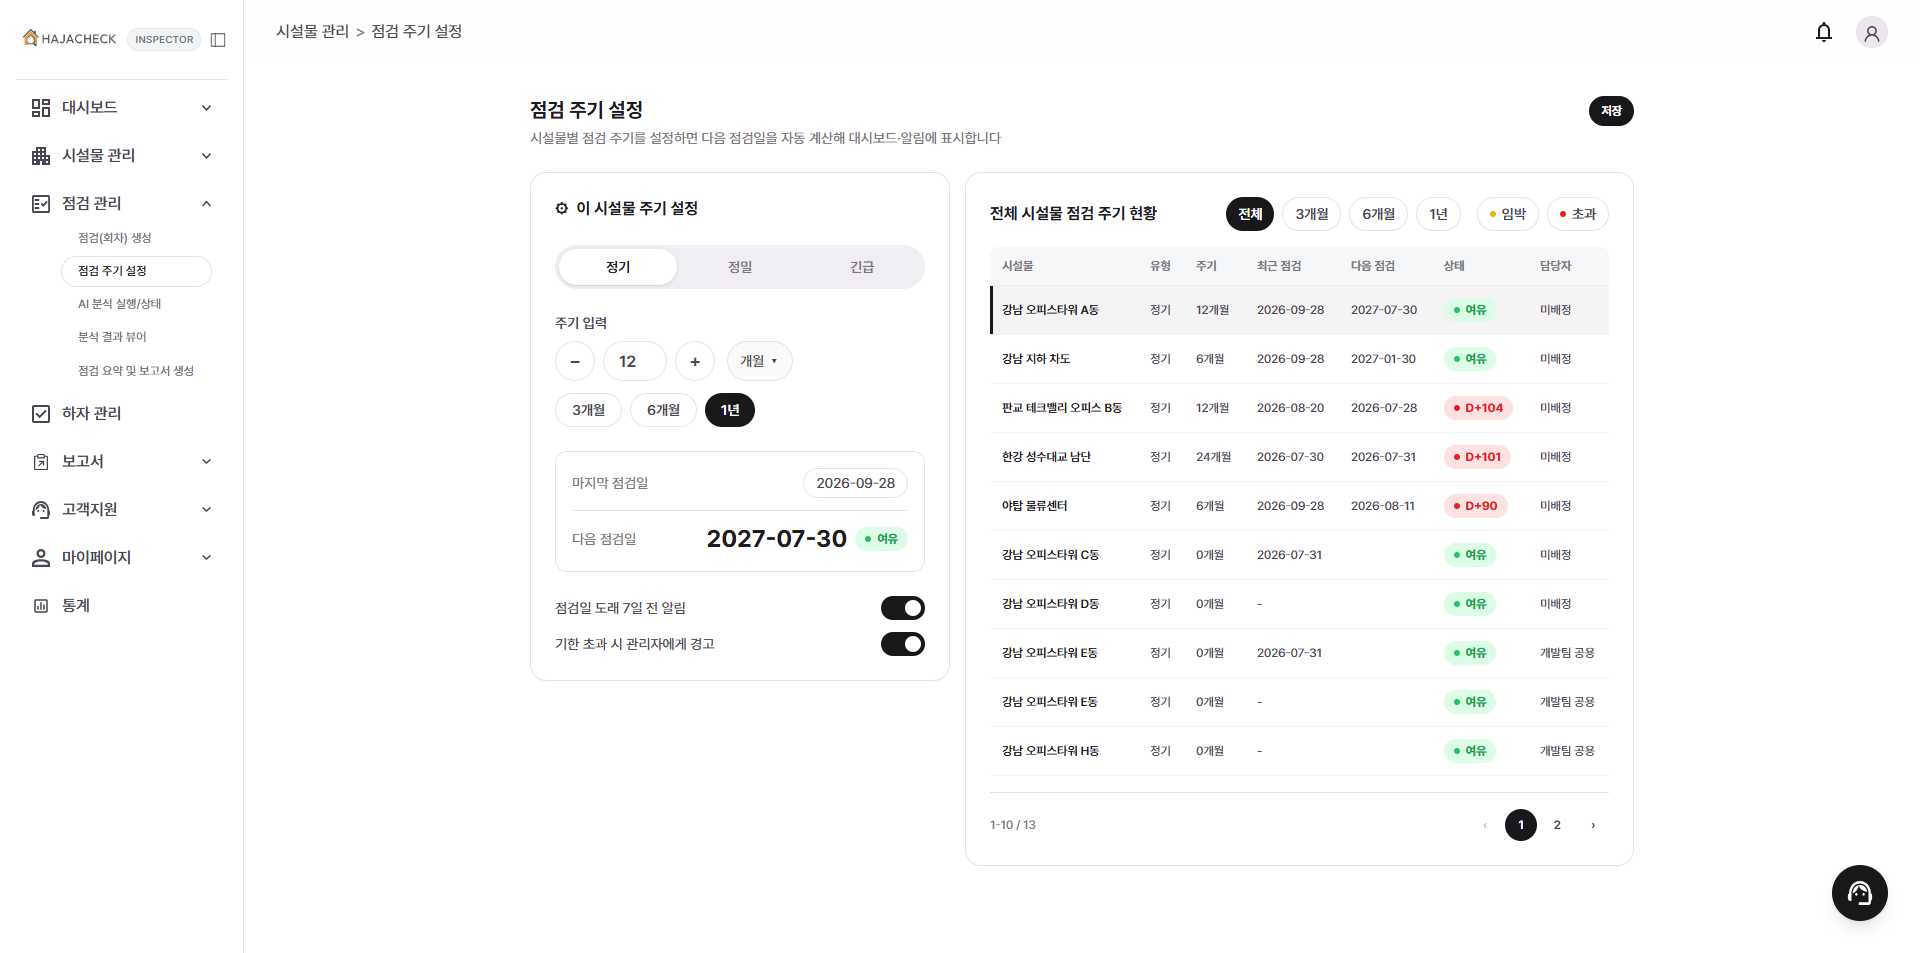
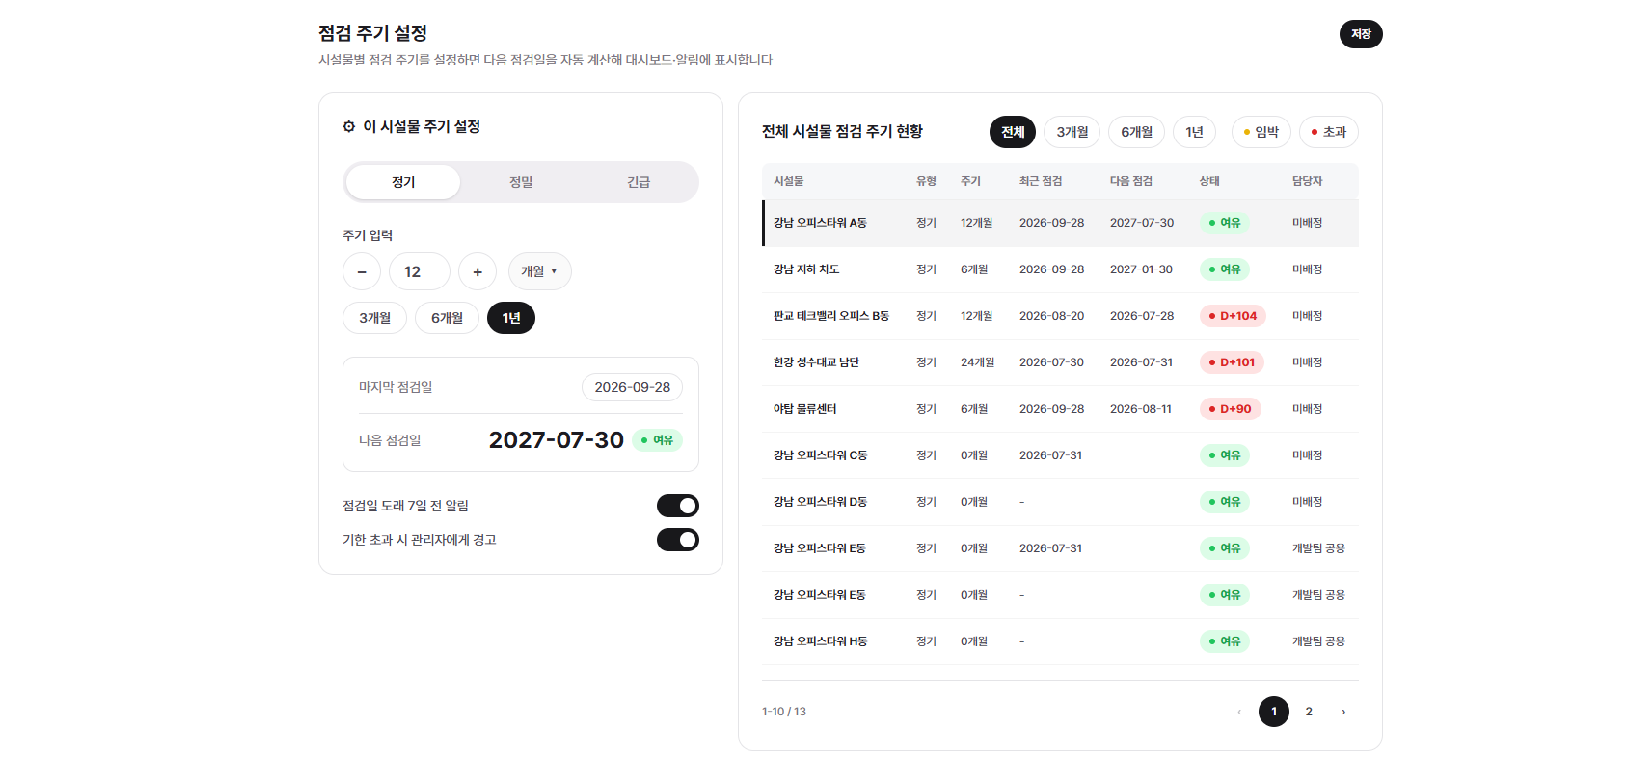
fix: 보고서 편집과 랜딩 시연 정합성 개선 (#1323)

diff --git a/frontend/src/features/landing/LandingPage.tsx b/frontend/src/features/landing/LandingPage.tsx
@@ -93,8 +93,8 @@ export default function LandingPage() {
           미래를 예측하다
         </h1>
         <p>
-          AI 기술과 체계적인 데이터 관리로 시설물의 수명을 늘리고 유지보수 비용을 절감하세요.
-          도면부터 센서 데이터까지 완벽하게 통제합니다.
+          시설물 정보부터 점검 결과와 하자 이력까지 한 곳에서 관리하세요.
+          AI 분석과 보고서 생성으로 점검 업무를 더 빠르게 이어갑니다.
         </p>
         <a className="landing-cta" href="/login">
           무료로 시작하기 →
@@ -157,9 +157,9 @@ export default function LandingPage() {
           완벽하게
         </h2>
         <p className="landing-p--wide">
-          도면, 센서 데이터, 점검 이력 등 흩어져 있는 시설물 정보를 중앙 집중화하여 언제 어디서나 쉽게
+          시설물 정보와 점검 이력을 한 곳에서 관리하고, 점검 회차별 결과와 하자 현황을 확인하세요.
           <br />
-          접근하고 관리하세요. 최신 BIM 연동을 지원합니다.
+          시설물별 점검 주기를 설정해 다음 점검 일정을 관리할 수 있습니다.
         </p>
         <div className="landing-visual landing-screen-visual">
           <img src={analysisViewerImage} alt="분석 결과 뷰어 화면" className="landing-screen-image" loading="lazy" />
@@ -170,8 +170,9 @@ export default function LandingPage() {
         <p className="landing-eyebrow">INSPECTION MANAGEMENT</p>
         <h2>체계적인 점검 일정과 이력 관리</h2>
         <p>
-          정기, 수시 점검 일정을 누락 없이 관리하고, 현장에서 모바일로 즉시 결과를 입력하세요.
-          데이터는 클라우드에 안전하게 동기화됩니다.
+          정기·정밀·긴급 점검 회차를 만들고, 사진과 영상을 업로드해 점검을 시작하세요.
+          <br />
+          분석 결과와 검수 상태를 확인하며 점검 이력을 관리할 수 있습니다.
         </p>
         <div className="landing-visual landing-screen-visual">
           <img src={inspectionCycleImage} alt="시설물 점검 주기 설정 화면" className="landing-screen-image" loading="lazy" />
@@ -186,9 +187,9 @@ export default function LandingPage() {
           미세한 결함
         </h2>
         <p>
-          드론 촬영 이미지나 현장 사진을 업로드하면, AI 비전 기술이 균열, 누수, 박락 등{' '}
+          현장 사진과 영상을 업로드하면, AI 비전 기술이 균열, 누수, 박리·박락 등{' '}
           <span className="landing-nowrap">육안으로 놓치기</span> 쉬운 하자를 자동으로
-          분석하고 심각도를 분류합니다.
+          탐지하고 등급과 위치를 확인할 수 있습니다.
         </p>
         <div className="landing-badge-row">
           <span className="landing-pill landing-pill--danger">
@@ -239,12 +240,6 @@ export default function LandingPage() {
                     </li>
                   ))}
                 </ul>
-                <a
-                  className={`landing-pricing-cta${tier.inverted ? ' landing-pricing-cta--white' : ''}`}
-                  href="/login"
-                >
-                  {tier.ctaLabel}
-                </a>
               </div>
             ))}
           </div>

diff --git a/frontend/src/features/report/pages/ReportGeneratePage.tsx b/frontend/src/features/report/pages/ReportGeneratePage.tsx
@@ -13,6 +13,7 @@ import { ReportEditorHero } from '../components/editor/ReportEditorHero';
 import { isReportContent } from '../types';
 import type { ReportContent } from '../types';
 import { buildReportPdfFileName, exportReportToPdf } from '../utils/exportReportToPdf';
+import { getEmptyManualSectionLabels } from '../utils/manualSectionValidation';
 import { buildReportPdfContext } from '../utils/reportPdfContext';
 
 function extractErrorMessage(err: unknown, fallback: string): string {
@@ -217,6 +218,8 @@ export function ReportGeneratePage() {
   }, [applyReport, reportQuery.data]);
 
   const dirty = content !== null && savedContent !== null && JSON.stringify(content) !== JSON.stringify(savedContent);
+  const emptyManualSectionLabels = useMemo(() => getEmptyManualSectionLabels(content), [content]);
+  const hasEmptyManualSections = emptyManualSectionLabels.length > 0;
   const isFinalized = report?.status === 'FINALIZED';
 
   // 확정 검증을 통과하고(groundingCheckPassed === true) 저장되지 않은 변경이 없으면(!dirty),
@@ -268,6 +271,10 @@ export function ReportGeneratePage() {
 
   const handleSave = async () => {
     if (!report || !content || isSaving) return;
+    if (hasEmptyManualSections) {
+      setSaveError('내용이 비어 있는 추가 섹션을 입력하거나 삭제한 뒤 저장하세요.');
+      return;
+    }
     setIsSaving(true);
     setSaveError(null);
     try {
@@ -556,7 +563,11 @@ export function ReportGeneratePage() {
       {!isFinalized && (
         <div className="flex flex-col gap-3 rounded-lg border border-border bg-surface p-6">
           <div className="flex flex-wrap items-center gap-3">
-            <Button onClick={handleSave} variant="primary" disabled={!dirty || isSaving}>
+            <Button
+              onClick={handleSave}
+              variant="primary"
+              disabled={!dirty || isSaving || hasEmptyManualSections}
+            >
               {isSaving ? '저장 중...' : '저장'}
             </Button>
             <Button
@@ -570,6 +581,11 @@ export function ReportGeneratePage() {
           {dirty && (
             <p className="text-xs text-text-muted">
               저장하지 않은 변경 사항이 있습니다. 확정 검증 전에 저장하세요.
+            </p>
+          )}
+          {hasEmptyManualSections && (
+            <p className="text-xs text-danger" role="alert">
+              내용이 비어 있는 추가 섹션이 있습니다: {emptyManualSectionLabels.join(', ')}
             </p>
           )}
           {report.groundingCheckPassed !== true && !dirty && (

diff --git a/frontend/src/features/report/pages/ReportGeneratePage.test.tsx b/frontend/src/features/report/pages/ReportGeneratePage.test.tsx
@@ -87,6 +87,7 @@ const mockReport: ReportDetailResponse = {
 };
 
 let generateReportCallCount = 0;
+let updateReportCallCount = 0;
 let reportState: ReportDetailResponse = mockReport;
 let uploadedPdfFileName: string | null = null;
 let uploadedPdfSize: number | null = null;
@@ -120,6 +121,7 @@ const server = setupServer(
   }),
   http.get('/api/reports/1', () => HttpResponse.json({ success: true, data: reportState })),
   http.patch('/api/reports/1', async ({ request }) => {
+    updateReportCallCount += 1;
     const body = (await request.json()) as { contentJson: string };
     reportState = { ...reportState, content: JSON.parse(body.contentJson), groundingCheckPassed: null };
     return HttpResponse.json({ success: true, data: reportState });
@@ -164,6 +166,7 @@ const server = setupServer(
 beforeAll(() => server.listen());
 beforeEach(() => {
   generateReportCallCount = 0;
+  updateReportCallCount = 0;
   reportState = mockReport;
   uploadedPdfFileName = null;
   uploadedPdfSize = null;
@@ -284,6 +287,21 @@ describe('ReportGeneratePage', () => {
     await waitFor(() => expect(purposeInput.readOnly).toBe(true));
     resolveSave?.();
     await waitFor(() => expect(purposeInput.readOnly).toBe(false));
+  });
+
+  it('내용이 비어 있는 추가 섹션은 저장할 수 없다', async () => {
+    renderPage();
+    await screen.findByText('보고서 생성 결과');
+
+    fireEvent.click(screen.getByRole('button', { name: '+ 서식 섹션 추가' }));
+    fireEvent.click(screen.getByRole('button', { name: '제출문' }));
+
+    const saveButton = screen.getByRole('button', { name: '저장' }) as HTMLButtonElement;
+    expect(saveButton.disabled).toBe(true);
+    expect(screen.getByRole('alert').textContent).toContain('제출문');
+
+    fireEvent.click(saveButton);
+    expect(updateReportCallCount).toBe(0);
   });
 
   it('기존 reportId 상세 content로 진입해 바로 PDF 생성 후 확정할 수 있다', async () => {

diff --git a/frontend/src/features/landing/LandingPage.test.tsx b/frontend/src/features/landing/LandingPage.test.tsx
@@ -40,6 +40,22 @@ describe('LandingPage 제품 스크린샷 및 요금제', () => {
     });
   });
 
+  it('요금제 카드에는 가입 또는 문의 CTA를 표시하지 않는다', () => {
+    renderWithProviders(<LandingPage />);
+
+    expect(screen.queryByRole('link', { name: '무료 시작' })).toBeNull();
+    expect(screen.queryByRole('link', { name: '업그레이드 문의' })).toBeNull();
+    expect(screen.queryByRole('link', { name: '도입 문의' })).toBeNull();
+  });
+
+  it('레포에 없는 센서, BIM, 드론 연동 기능을 랜딩에 소개하지 않는다', () => {
+    renderWithProviders(<LandingPage />);
+
+    expect(screen.queryByText(/센서 데이터|BIM 연동|드론 촬영/)).toBeNull();
+    expect(screen.getByText(/시설물 정보와 점검 이력을 한 곳에서 관리하고/)).toBeTruthy();
+    expect(screen.getByText(/현장 사진과 영상을 업로드하면/)).toBeTruthy();
+  });
+
   it('공개 요금제 API를 통해 요금제 카탈로그 데이터를 동적으로 받아와 렌더링한다', async () => {
     const plans: PublicPlanCatalogResponse = {
       plans: [

diff --git a/frontend/src/app/main.tsx b/frontend/src/app/main.tsx
@@ -6,9 +6,25 @@ import { AuthGate } from './AuthGate';
 import { router } from './router';
 import { DevModeBadge } from '../shared/components/DevModeBadge';
 import { shouldEnableMocking } from '../shared/utils/shouldEnableMocking';
+import pretendardVariableUrl from 'pretendard/dist/web/variable/woff2/PretendardVariable.woff2?url';
 import '../styles/global.css';
 
 const queryClient = new QueryClient();
+
+function preloadPretendard(): void {
+  if (document.querySelector('link[data-font="pretendard-variable"]')) return;
+
+  const link = document.createElement('link');
+  link.rel = 'preload';
+  link.as = 'font';
+  link.type = 'font/woff2';
+  link.crossOrigin = 'anonymous';
+  link.href = pretendardVariableUrl;
+  link.dataset.font = 'pretendard-variable';
+  document.head.appendChild(link);
+}
+
+preloadPretendard();
 
 // worker.start() 가 (서비스워커 등록 지연·캐시 이슈 등으로) 영영 안 끝나면 앱이 흰 화면으로 멈추므로
 // 타임아웃을 둔다 — 초과 시 목 없이 그냥 렌더한다(로컬 개발이라 목 미동작은 콘솔 경고로 족함).

diff --git a/frontend/src/features/report/components/editor/ReportEditorHero.tsx b/frontend/src/features/report/components/editor/ReportEditorHero.tsx
@@ -164,9 +164,7 @@ export function ReportEditorHero({
           {steps.map((step, index) => (
             <li
               key={step.key}
-              className={`relative z-10 flex min-w-0 flex-col items-center gap-2 text-center ${
-                step.active ? 'opacity-100' : 'opacity-30'
-              }`}
+              className="relative z-10 flex min-w-0 flex-col items-center gap-2 text-center"
             >
               <span
                 className={`inline-flex h-10 w-10 items-center justify-center rounded-full text-base font-bold ${
@@ -178,7 +176,11 @@ export function ReportEditorHero({
               >
                 {step.key}
               </span>
-              <span className="truncate text-[11px] font-medium tracking-wide text-heading sm:text-xs">
+              <span
+                className={`truncate text-[11px] font-medium tracking-wide text-heading sm:text-xs ${
+                  step.active ? 'opacity-100' : 'opacity-30'
+                }`}
+              >
                 {step.label}
               </span>
             </li>

diff --git a/frontend/src/features/landing/landing.css b/frontend/src/features/landing/landing.css
@@ -345,7 +345,6 @@
   max-width: 1000px;
   margin: 40px auto 0;
   border-radius: 20px;
-  aspect-ratio: 16 / 8;
   background: linear-gradient(135deg, #24262b 0%, #46484f 100%);
   border: none;
   position: relative;
@@ -353,6 +352,7 @@
 }
 
 .landing-screen-visual {
+  padding: 10px;
   background: #f7f7f8;
   border: 1px solid var(--landing-border);
 }
@@ -360,9 +360,7 @@
 .landing-screen-image {
   display: block;
   width: 100%;
-  height: 100%;
-  object-fit: cover;
-  object-position: top center;
+  height: auto;
 }
 
 .landing-pricing {
@@ -487,24 +485,6 @@
 
 .landing-pricing-feature--excluded .landing-pricing-feature-label {
   text-decoration: line-through;
-}
-
-.landing-pricing-cta {
-  display: block;
-  text-align: center;
-  border-radius: var(--landing-radius-pill);
-  padding: 12px;
-  font-size: 14px;
-  font-weight: 600;
-  text-decoration: none;
-  border: 1px solid #000;
-  color: #111;
-}
-
-.landing-pricing-cta--white {
-  background: #fff;
-  color: #111;
-  border: none;
 }
 
 .landing-banner {

diff --git a/frontend/src/features/report/utils/manualSectionValidation.ts b/frontend/src/features/report/utils/manualSectionValidation.ts
@@ -1,0 +1,31 @@
+import type {
+  GenericManualSectionData,
+  ManualSection,
+  ParticipantsSectionData,
+  ReportContent,
+  SubmissionSectionData,
+} from '../types';
+
+function hasText(value: string): boolean {
+  return value.trim().length > 0;
+}
+
+function hasManualSectionContent(section: ManualSection): boolean {
+  if (section.type === 'submission') {
+    return Object.values(section.data as SubmissionSectionData).some(hasText);
+  }
+
+  if (section.type === 'participants') {
+    return (section.data as ParticipantsSectionData).entries.some((entry) =>
+      Object.values(entry).some(hasText),
+    );
+  }
+
+  return hasText((section.data as GenericManualSectionData).body);
+}
+
+export function getEmptyManualSectionLabels(content: ReportContent | null): string[] {
+  return (content?.manualSections ?? [])
+    .filter((section) => !hasManualSectionContent(section))
+    .map((section) => section.title);
+}

diff --git a/frontend/src/features/report/components/editor/DetailSection.tsx b/frontend/src/features/report/components/editor/DetailSection.tsx
@@ -19,7 +19,7 @@ const INLINE_INPUT_CLASSES =
   'w-full rounded-lg border border-transparent bg-transparent px-0 py-0 text-base font-semibold leading-6 text-heading outline-none transition focus:border-primary focus:bg-surface focus:px-2 focus:py-1 focus:ring-2 focus:ring-primary/10 disabled:cursor-not-allowed read-only:text-heading';
 
 const INLINE_TEXTAREA_CLASSES =
-  'min-h-0 border-transparent bg-transparent px-0 py-0 text-sm leading-6 focus:border-primary focus:bg-surface focus:px-2 focus:py-1 read-only:bg-transparent read-only:text-heading';
+  'min-h-0 border-transparent bg-transparent px-0 py-0 text-sm leading-6 focus:border-primary focus:bg-surface read-only:bg-transparent read-only:text-heading';
 
 interface DetailSectionProps {
   content: ReportContent;

diff --git a/frontend/src/features/report/components/editor/RecommendationSection.tsx b/frontend/src/features/report/components/editor/RecommendationSection.tsx
@@ -30,7 +30,7 @@ const INLINE_INPUT_CLASSES =
   'w-full rounded-lg border border-transparent bg-transparent px-0 py-0 text-base font-medium leading-6 text-heading outline-none transition focus:border-primary focus:bg-surface focus:px-2 focus:py-1 focus:ring-2 focus:ring-primary/10 disabled:cursor-not-allowed read-only:text-heading';
 
 const INLINE_TEXTAREA_CLASS =
-  'min-h-0 border-transparent bg-transparent px-0 py-0 leading-6 focus:border-primary focus:bg-surface focus:px-2 focus:py-1 read-only:bg-transparent read-only:text-heading';
+  'min-h-0 border-transparent bg-transparent px-0 py-0 leading-6 focus:border-primary focus:bg-surface read-only:bg-transparent read-only:text-heading';
 
 export function RecommendationSection({
   content,

diff --git a/frontend/src/styles/global.css b/frontend/src/styles/global.css
@@ -2,13 +2,21 @@
 @import 'tailwindcss';
 @import './tokens.css';
 
+@font-face {
+  font-family: 'Pretendard Variable';
+  font-style: normal;
+  font-weight: 45 920;
+  font-display: block;
+  src: url('../../node_modules/pretendard/dist/web/variable/woff2/PretendardVariable.woff2') format('woff2-variations');
+}
+
 * {
   box-sizing: border-box;
 }
 
 body {
   margin: 0;
-  font-family: 'Pretendard', -apple-system, sans-serif;
+  font-family: 'Pretendard Variable', -apple-system, sans-serif;
 }
 
 /* 사용자 목록 PDF 내보내기(관리자 > 사용자 관리) — 인쇄 시 사이드바·헤더·챗봇 버튼 등

diff --git a/frontend/src/shared/components/charts/palette.ts b/frontend/src/shared/components/charts/palette.ts
@@ -45,7 +45,7 @@ export const CHART_SERIES_COLORS: readonly string[] = [
 ];
 
 /** 전역 body 폰트(styles/global.css)와 동일 — recharts는 인라인 스타일이라 상속에 기대지 않고 명시한다. */
-export const CHART_FONT_FAMILY = "'Pretendard', -apple-system, sans-serif";
+export const CHART_FONT_FAMILY = "'Pretendard Variable', -apple-system, sans-serif";
 
 /** 공통 축(tick) 텍스트 스타일 — <XAxis tick>/<YAxis tick>에 그대로 전달. */
 export const CHART_AXIS_TICK_STYLE = {
